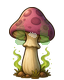
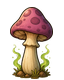
Replace crude fungus spore overlays with a painted cycle.
Geometric vapor blobs clashed with the toadstool; the new strip keeps wisps and motes in the same cel-shaded look.

diff --git a/tools/build_poison_fungus_frames.py b/tools/build_poison_fungus_frames.py
@@ -1,133 +1,96 @@
 #!/usr/bin/env python3
-"""Build poison fungus spore-puff animation frames from the idle mushroom art.
+"""Build poison fungus spore-puff frames from the painted strip.
 
-Frames (64x80, feet on baseline):
+Source: ``assets/source/cave/poison_fungus_spore_strip.png`` — four painterly
+poses (idle → gather → puff → settle) matching the mushroom's cel-shaded look.
+Do **not** overlay geometric vapor blobs; the strip already paints the toxic
+wisps and spore motes in the same hand-drawn style as the idle toadstool.
+
+Frames (64×80, feet on baseline 79):
   0 idle — soft resting vapor
-  1 swell — cap lifts, spores gather under the gills
-  2 burst — spores fan outward with a toxic green puff
-  3 drift — cloud thins as spores float away
+  1 gather — cap breathes, wisps thicken
+  2 puff — soft spore cloud under the cap
+  3 settle — cloud thins, returns toward idle
+
+    python tools/build_poison_fungus_frames.py
 """
 
 from __future__ import annotations
 
-import math
-import random
 from pathlib import Path
 
-from PIL import Image, ImageDraw
+from PIL import Image
+
+from art_pipeline import cutout, frame_sprite, slice_strip
 
 ROOT = Path(__file__).resolve().parents[1]
-SRC = ROOT / "assets" / "world" / "poison_fungus.png"
+SRC = ROOT / "assets" / "source" / "cave" / "poison_fungus_spore_strip.png"
 OUT = ROOT / "assets" / "world"
 
-W, H = 64, 80
-# Cap sits near the top of the framed sprite; stem foot on bottom.
-CAP_CX, CAP_CY = 32, 28
-STEM_TOP = 34
+CANVAS = (64, 80)
+BASELINE = 79
+BODY_H = 72
 
 
-def _load_base() -> Image.Image:
-    if not SRC.exists():
-        raise SystemExit(f"missing {SRC}")
-    return Image.open(SRC).convert("RGBA")
-
-
-def _draw_vapor(
-    im: Image.Image,
-    rng: random.Random,
-    *,
-    strength: float,
-    rise: float,
-    spread: float,
-) -> None:
-    """Soft lime vapor columns beside the stem."""
-    overlay = Image.new("RGBA", (W, H), (0, 0, 0, 0))
-    d = ImageDraw.Draw(overlay)
-    for side in (-1, 1):
-        for i in range(5):
-            x = CAP_CX + side * (10 + int(spread * (4 + i)))
-            y0 = STEM_TOP + 8 - int(rise * 6)
-            for step in range(10):
-                t = step / 9.0
-                xx = x + int(side * 2.5 * math.sin(t * math.pi * 1.4 + i))
-                yy = y0 - int(t * (18 + rise * 14))
-                rad = max(1, int((2.2 + strength * 2.5) * (1.0 - t * 0.45)))
-                a = int((90 + strength * 90) * (1.0 - t * 0.7))
-                g = 170 + rng.randint(-20, 30)
-                col = (90 + rng.randint(-10, 20), g, 70 + rng.randint(-15, 20), a)
-                d.ellipse((xx - rad, yy - rad, xx + rad, yy + rad), fill=col)
-    im.alpha_composite(overlay)
-
-
-def _draw_spores(
-    im: Image.Image,
-    rng: random.Random,
-    *,
-    count: int,
-    radius: float,
-    alpha: float,
-    outward: float,
-) -> None:
-    """Bright spore dots fanning from under the cap."""
-    overlay = Image.new("RGBA", (W, H), (0, 0, 0, 0))
-    d = ImageDraw.Draw(overlay)
-    for i in range(count):
-        ang = -math.pi * 0.15 + (math.pi * 1.3) * (i / max(1, count - 1))
-        dist = radius * (0.35 + 0.65 * ((i * 37) % 10) / 10.0) * outward
-        x = CAP_CX + math.cos(ang) * dist * 1.15
-        y = CAP_CY + 6 + math.sin(ang) * dist * 0.55 + rng.uniform(-1.5, 1.5)
-        # Mix lime and pale spores.
-        if rng.random() < 0.55:
-            col = (230, 255, 190, int(220 * alpha))
-        else:
-            col = (255, 255, 255, int(200 * alpha))
-        r = 1 if rng.random() < 0.7 else 2
-        d.ellipse((x - r, y - r, x + r, y + r), fill=col)
-    im.alpha_composite(overlay)
+def _valley_cuts(im: Image.Image, count: int = 4) -> list[int]:
+	w, _ = im.size
+	ap = im.split()[3].load()
+	dens = [sum(1 for y in range(im.size[1]) if ap[x, y] > 8) for x in range(w)]
+	win = 8
+	smooth = [
+		sum(dens[max(0, x - win) : min(w, x + win + 1)])
+		/ (min(w, x + win + 1) - max(0, x - win))
+		for x in range(w)
+	]
+	cuts = [0]
+	for bi in range(1, count):
+		center = int(w * bi / count)
+		lo = max(0, center - 60)
+		hi = min(w, center + 60)
+		region = smooth[lo:hi]
+		best = min(range(len(region)), key=lambda i: region[i])
+		cuts.append(lo + best)
+	cuts.append(w)
+	return cuts
 
 
 def build_frames() -> list[Path]:
-    base = _load_base()
-    specs = [
-        # strength, rise, spread, spore_count, spore_r, spore_a, outward, swell
-        ("poison_fungus_0.png", 0.35, 0.2, 0.4, 6, 6.0, 0.55, 0.4, 0.0),
-        ("poison_fungus_1.png", 0.7, 0.55, 0.75, 12, 9.0, 0.85, 0.7, 0.55),
-        ("poison_fungus_2.png", 1.0, 1.0, 1.2, 22, 16.0, 1.0, 1.15, 0.35),
-        ("poison_fungus_3.png", 0.55, 1.15, 1.0, 14, 20.0, 0.55, 1.35, 0.1),
-    ]
-    paths: list[Path] = []
-    for name, strength, rise, spread, count, radius, alpha, outward, swell in specs:
-        rng = random.Random(hash(name) & 0xFFFF)
-        frame = base.copy()
-        _draw_vapor(frame, rng, strength=strength, rise=rise, spread=spread)
-        _draw_spores(
-            frame,
-            rng,
-            count=count,
-            radius=radius,
-            alpha=alpha,
-            outward=outward,
-        )
-        # Mild cap bob: shift a soft highlight on the crown for the swell beat.
-        if swell > 0.2:
-            d = ImageDraw.Draw(frame)
-            a = int(40 + swell * 50)
-            d.ellipse(
-                (CAP_CX - 10, CAP_CY - 12, CAP_CX + 10, CAP_CY - 2),
-                fill=(255, 180, 190, a),
-            )
-        path = OUT / name
-        frame.save(path)
-        paths.append(path)
-        print(f"wrote {path.relative_to(ROOT)} {frame.size}")
+	if not SRC.exists():
+		raise SystemExit(f"missing {SRC}")
+	keyed = cutout(str(SRC), level=200, sat=28)
+	segs = slice_strip(keyed, min_gap_frac=0.008)
+	if len(segs) < 4:
+		cuts = _valley_cuts(keyed, 4)
+		inset = 12
+		segs = []
+		for i in range(4):
+			cell = keyed.crop((cuts[i] + inset, 0, cuts[i + 1] - inset, keyed.size[1]))
+			bbox = cell.getbbox()
+			if bbox:
+				cell = cell.crop(bbox)
+			segs.append(cell)
+	elif len(segs) > 4:
+		ranked = sorted(
+			range(len(segs)),
+			key=lambda i: segs[i].size[0] * segs[i].size[1],
+			reverse=True,
+		)[:4]
+		segs = [segs[i] for i in sorted(ranked)]
 
-    # Stamp / legacy path stays the idle pose.
-    idle = OUT / "poison_fungus_0.png"
-    if idle.exists():
-        Image.open(idle).convert("RGBA").save(OUT / "poison_fungus.png")
-        print("wrote assets/world/poison_fungus.png (idle)")
-    return paths
+	paths: list[Path] = []
+	for i, seg in enumerate(segs[:4]):
+		framed = frame_sprite(seg, canvas=CANVAS, target_h=BODY_H, baseline=BASELINE)
+		path = OUT / f"poison_fungus_{i}.png"
+		framed.save(path)
+		paths.append(path)
+		print(f"wrote {path.relative_to(ROOT)} {framed.size}")
+
+	# Stamp / legacy idle matches the loop's resting pose.
+	idle = OUT / "poison_fungus_0.png"
+	Image.open(idle).convert("RGBA").save(OUT / "poison_fungus.png")
+	print("wrote assets/world/poison_fungus.png (idle)")
+	return paths
 
 
 if __name__ == "__main__":
-    build_frames()
+	build_frames()

diff --git a/docs/cave_biome.md b/docs/cave_biome.md
@@ -68,7 +68,7 @@ Stamp a **ladder**, run **one-way crystal ledges** along the climb top, then **d
 - **Stalactites:** cowboy-style rock spikes hanging from the ceiling band. Theme décor spawns a **sparse** row of dropping teeth along the trail (skips cells that already have a stamped hazard nearby), with tops embedded in the rock so they read as part of the ceiling before they fall. **Falling** ones wiggle, pull free, fall, then shatter with a transparent impact puff. **Ceiling Spike** stamps can stay put as static rock.
 - **Bats:** two-frame wing flap on a sine/arc path (transparent cutouts).
 - **Lizards:** reuse bull AI (charge, face player, turn back ~8 cm at pit/canyon lips, full tie sequence) with a single lizard sprite; never stamped on pit mouths or canyon columns.
-- **Poison fungus:** cactus rules (hurt / Bubble bounce) with mushroom art; loops a short **spore-puff** animation (idle → gather → burst → drift) so toxic spores visibly spread under the cap.
+- **Poison fungus:** cactus rules (hurt / Bubble bounce) with mushroom art; loops a short **spore-puff** animation painted in the same cel-shaded style as the toadstool (idle → gather → puff → settle) so toxic wisps and soft spore motes feel like part of the mushroom, not a separate overlay.
 - **Scorpions:** rattlesnake raise/strike timing with a tail sting pose. Available as their own desert stamp (`scorpion` / `as_scorpion`); cave style still remaps the rattlesnake stamp to scorpion art.
 - **Bow skeletons:** bandit patrol + shoot cadence, but spawn **arrows** instead of revolver bullets; lasso/stomp still ties. Idle/walk/tied frames share one body height on a transparent canvas; tied pose keeps stand scale and sits on the dirt.
 - **Ninjas:** ambush appears ~12 columns ahead of the cowboy; chase leaps pits/canyons with a crouch→airborne jump anim.
@@ -90,7 +90,7 @@ Builtin **Outlaw Cave** (level 5) and cave arc **levels 11–15** (`Crystal Mout
 - Env: `cave_sky.png`, `cave_ceiling_fill.png`, `cave_ceiling_{ll,lh,hl,hh}_*.png` + `cave_ceiling_segments.json`, `cave_ceiling_tile.png` (legacy mid panel), `cave_floor_tile.png`, `cave_dirt_tile.png`, `cave_canyon_rim_left.png`, `cave_plank.png`, `cave_pit.png`
 - Goal: `goal_crystal_gate.png`
 - Camp: `checkpoint_cave_active.png` / `_inactive` (transparent cutout)
-- Fungus: `poison_fungus.png` + spore-puff frames `poison_fungus_0`…`_3`
+- Fungus: `poison_fungus.png` + painted spore-cycle frames `poison_fungus_0`…`_3` (rebuild from `assets/source/cave/poison_fungus_spore_strip.png` via `tools/build_poison_fungus_frames.py`)
 - Lizard: stand / tied_legs / down (bull-sized aspect)
 - Skeleton: idle + walk strip + tied (+ crystal/red bounty set) — walk frames same height as idle
 - Scorpion: idle + sting

diff --git a/README.md b/README.md
@@ -2,7 +2,7 @@
 
 Child-friendly 2D western cowboy platformer (Godot **4.4**). Aimed at kids ~6: forgiving jumps, nonviolent lasso. **Classic mode** has no lives or game over; **Advanced Mode** (chosen in **Settings** before starting or continuing a slot) adds a three-life limit, badge milestones, and a game-over return to the start screen. Pick **Cowboy** or **Cowgirl** in Settings — the choice applies across all save slots. **German is the default language**; English is fully supported.
 
-**Content version:** `1.8.51` (see `content_version.txt`). Launchers reimport when this stamp changes.
+**Content version:** `1.8.52` (see `content_version.txt`). Launchers reimport when this stamp changes.
 
 This README is the **binding source of truth** for gameplay, level design, art, i18n, and audio. Agents and contributors must follow it (see [Agent / contributor rules](#agent--contributor-rules)).
 
@@ -137,7 +137,7 @@ Agents **must** honor these when editing levels or trail systems:
 ### Cave style
 
 - Trail documents may set `"style": "cave"` (workshop **Level style**). Binding art/behavior notes: `docs/cave_biome.md`.
-- Cave remaps stamp **presentation** (same type ids): fungus/lizard/scorpion/bow skeleton/lantern camp/**Crystal Gate** (saloon replacement). Poison fungus loops a short spore-puff animation. Cave-only stamps: `acid_drip`, `stalactite`, `stalactite_static`, `bat`.
+- Cave remaps stamp **presentation** (same type ids): fungus/lizard/scorpion/bow skeleton/lantern camp/**Crystal Gate** (saloon replacement). Poison fungus loops a short painted spore-puff animation. Cave-only stamps: `acid_drip`, `stalactite`, `stalactite_static`, `bat`.
 - Pink drips splash on the floor then respawn; falling stalactites pull free before dropping; **Bubble does not block** drips/spikes. Bats can bounce off Bubble.
 - Cave floors use dense cool stone + pink flecks; cowboy-style rock ceiling **panels** with fixed **low/high** side heights (3 variants of each start→end combo) chained only when adjacent edges match; solid fill stays **above** the panel tops; sparse décor stalactites fuse into seat nubs until release (none on Dragon Gate / Cave Dragon); deep cave wash **tucks under the floor** (no gap); no desert sun/mesa hills.
 - **Wings cannot pass the ceiling** (`FlightCeilingCave`); touching the rock while flying (`CaveCeilingHazard`) respawns at camp.
